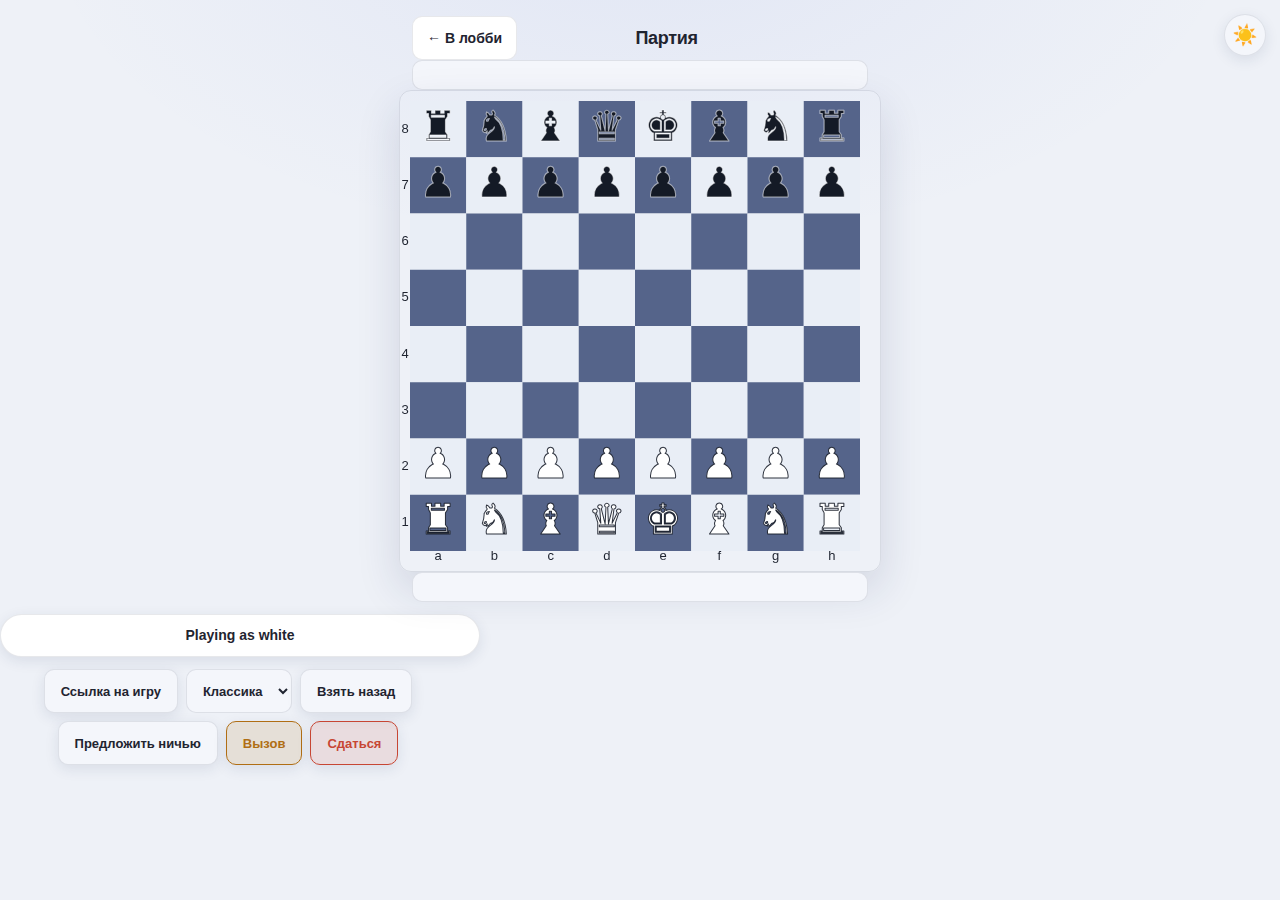
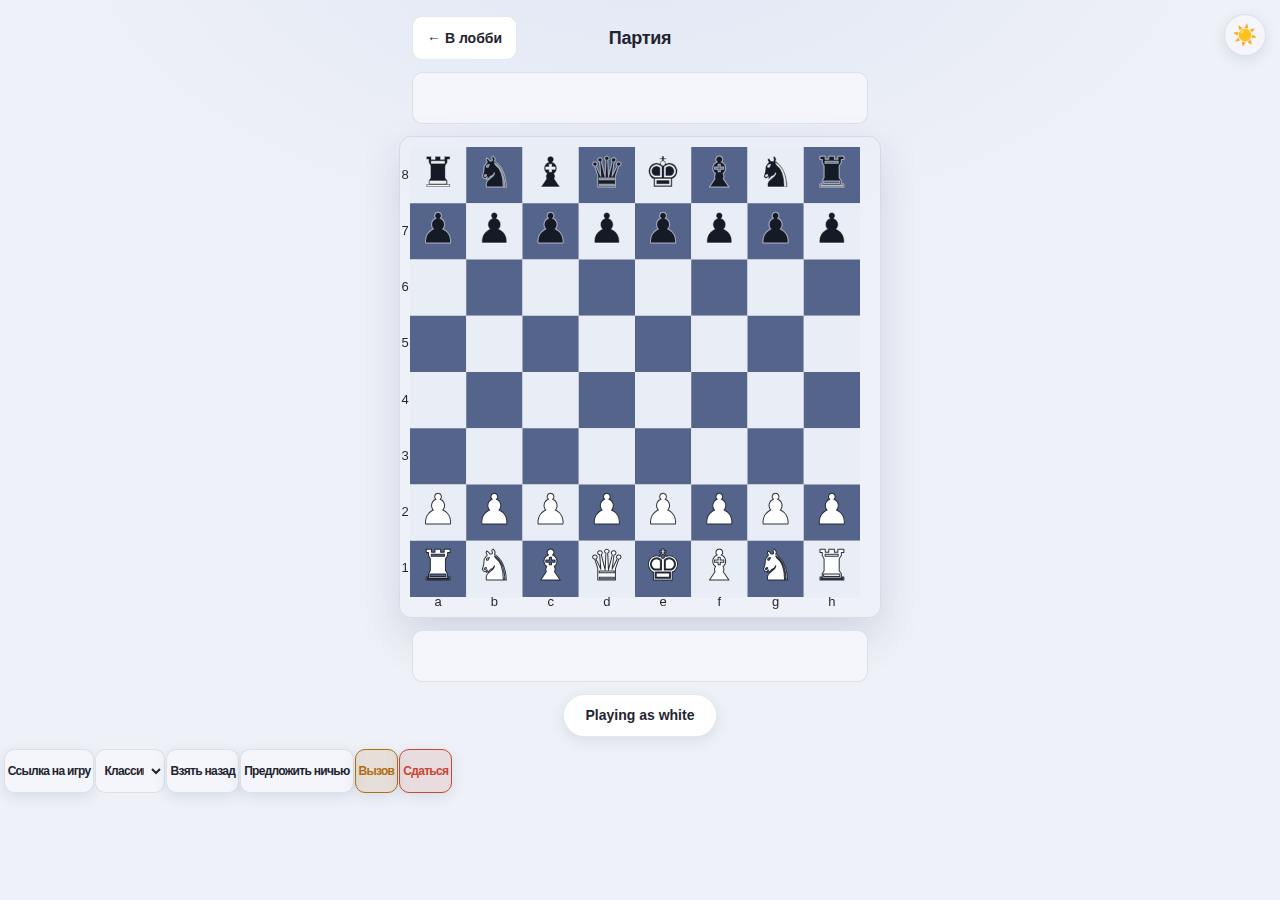
style(game): D-b rhythm, tap targets, empty-strip stability

diff --git a/src/public/styles/game.css b/src/public/styles/game.css
@@ -512,3 +512,88 @@ canvas#cnv {
    themes. No earlier .cap-piece rule sets color, so nothing conflicts. */
 .cap-piece.cap-dark { color:#11161f; -webkit-text-stroke:.6px rgba(233,238,249,.75); text-shadow:0 0 2px rgba(233,238,249,.35); }
 .cap-piece.cap-light { color:#eef2fb; -webkit-text-stroke:.6px rgba(17,22,31,.75); text-shadow:0 0 2px rgba(0,0,0,.5); }
+/* contract-37 D-b: final visual polish pass on the single --game-col game page
+   (header -> status -> captured strip -> board -> captured strip -> actions).
+   Verified with puppeteer geometry at 390x844 and 1280x900; before/after
+   numbers in checkpoints/37s-polish.md.
+
+   0) Header title centering: .game-header is position:relative and
+      .nav-title is absolute at left:50% + translateX(-50%), so "Партия" is
+      centered in the COLUMN regardless of the asymmetric flex row (the 105px
+      back button is ~2x wider than the 52px right spacer, which used to shift
+      the flex:1 title's center ~26px right of the column center — measured
+      221.5 vs 195 at 390, 666.5 vs 640 at 1280; after: delta 0). max-width +
+      ellipsis guard a very long title at narrow widths.
+   1) Vertical rhythm: every inter-block gap is var(--sp-3)=12px, no doubling.
+      Each .captured-row owns a 12px gap on BOTH sides (margin: var(--sp-3) 0):
+      header->strip, strip->board and board->strip all read 12px. #status sets
+      margin-top:0 (its strip-side gap is already the white strip's bottom
+      margin — adjacent block margins collapse, they never stack) and keeps
+      12px below for status->actions. .game-header keeps D-a's top padding
+      (no bottom margin, which would stack with the black strip's top margin).
+   2) Tap targets + single row: every action-bar control is height:44px
+      (fixed, so all six are exactly 44px tall — >=44px tap targets). The bar
+      uses gap:1px, a compact fs-xs(12px) label size and -0.7px
+      letter-spacing, with the method select pinned to 70px (flex 0 0 70px +
+      min-width:0 beat its intrinsic content min-width), so all six controls
+      fit the 456px bar in ONE row at 1280 (443.6px + gaps); at 390 (347px
+      bar) the same layout wraps to a balanced two-row grid with no
+      horizontal overflow (scrollWidth == 390).
+   3) Status pill: width:fit-content (was full --game-col) so the pill hugs
+      its text and stays centered by its auto margins; max-width caps it to
+      the column, so it can never be wider than the board.
+   4) Captured strips: min-height:52px + align-items:baseline. 52px is the
+      height of a FILLED strip at the 24px desktop font (line-height 1.5 ->
+      36px + 6px*2 padding + 2px border); an EMPTY strip renders at the same
+      52px and the 43px mobile filled strip fits inside => baseline-aligned
+      glyphs, no board jump when captures appear (jump 0 at 1280, <=1px 390).
+   5) S3 cap-dark/cap-light rules untouched (verbatim above this block). */
+
+.game-header {
+  position: relative;
+}
+
+.game-header .nav-title {
+  position: absolute;
+  left: 50%;
+  transform: translateX(-50%);
+  flex: 0 1 auto;
+  max-width: 100%;
+  overflow: hidden;
+  text-overflow: ellipsis;
+  white-space: nowrap;
+}
+
+.captured-row {
+  align-items: baseline;
+  margin: var(--sp-3) 0;
+  min-height: 52px;
+}
+
+#status {
+  width: fit-content;
+  max-width: var(--game-col);
+  margin: 0 auto var(--sp-3);
+}
+
+.game-actions {
+  gap: 1px;
+}
+
+.game-actions > .game-btn {
+  height: 44px;
+  padding: 9px 3px;
+  font-size: var(--fs-xs);
+  letter-spacing: -0.7px;
+  white-space: nowrap;
+}
+
+.game-actions #method-select {
+  height: 44px;
+  min-width: 0;
+  flex: 0 0 70px;
+  width: 70px;
+  padding: 9px 4px;
+  font-size: var(--fs-xs);
+  letter-spacing: -0.7px;
+}

diff --git a/checkpoints/37s-polish.md b/checkpoints/37s-polish.md
@@ -1,0 +1,119 @@
+# 37s-polish — contract 37 D-b: final visual polish on the game page
+
+One file changed: `src/public/styles/game.css` (appended marked block
+`/* contract-37 D-b */`; D-a and S3 blocks preserved — S3 cap-dark/cap-light
+rules verified byte-identical to HEAD). Screenshots re-taken in the seated
+"Playing as white" state (guest pair, raw socket.io private-match, same
+seating as the E2E gate).
+
+Measured with `test/tmp-measure-37d.mjs` (puppeteer geometry, /snap/bin/chromium,
+headless) at 390x844 and 1280x900, on port 8805 (before) / 8999 (after).
+All gaps measured as `next.top - previous.bottom` (bounding boxes).
+
+## 0) Header title centering (orchestrator addendum to the D-b brief)
+
+Contract-37 item: header has "← В лобби" on the left and "Партия" centered in
+the column. Markup (game.ejs, unchanged): `.game-header` flex row =
+`a.nav-back` (~105px) + `h1.nav-title{flex:1;text-align:center}` +
+`span.nav-spacer{width:52px}`. Because the back button is ~2x wider than the
+right spacer, the flex:1 title's center was NOT the column center.
+
+| metric (puppeteer) | before | after |
+|---|---|---|
+| 390: .nav-title center (px) | 221.53 | 195.0 |
+| 390: viewport/column center (px) | 195.0 | 195.0 |
+| 390: title-center delta (px) | 26.53 | 0.0 |
+| 1280: .nav-title center (px) | 666.53 | 640.0 |
+| 1280: viewport/column center (px) | 640.0 | 640.0 |
+| 1280: title-center delta (px) | 26.53 | 0.0 |
+
+Target <=2px met (0px). Fix (D-b block, CSS-only): `.game-header{position:
+relative}` and `.game-header .nav-title{position:absolute; left:50%;
+transform:translateX(-50%); flex:0 1 auto; max-width:100%; overflow:hidden;
+text-overflow:ellipsis; white-space:nowrap}` — pins the title to the column
+midpoint independent of the asymmetric back-button/spacer widths; the
+higher-specificity `.game-header .nav-title` selector overrides D-a's
+`flex:1` so the absolute centering wins. No E2E row asserts the title's
+position, and all other D-b metrics (rhythm, tap targets, pill, strips) are
+unchanged by this addition (re-verified below).
+
+## 1) Vertical rhythm (gap between stacked blocks)
+
+| gap | before 390 | after 390 | before 1280 | after 1280 |
+|---|---|---|---|---|
+| header -> captured-black | 0 | 12 | 0 | 12 |
+| captured-black -> board | 0 | 12 | 0 | 12 |
+| board -> captured-white | 0 | 12 | 0 | 12 |
+| captured-white -> status | 12 | 12 | 12 | 12 |
+| status -> actions | 12 | 12 | 12 | 12 |
+
+How: each `.captured-row` now owns a 12px gap on both sides
+(`margin: var(--sp-3) 0`); `#status` sets `margin: 0 auto var(--sp-3)` so its
+top margin (0) does not stack with the white strip's bottom margin — adjacent
+block margins collapse, they never sum. `.game-header` keeps D-a's top padding
+(no bottom margin added, which would have stacked to 24px). Result: uniform
+12px (= var(--sp-3)) rhythm, no doubled margins.
+
+## 2) Action bar tap targets / single row
+
+| metric | before 390 | after 390 | before 1280 | after 1280 |
+|---|---|---|---|---|
+| bar height (px) | 148 (3 rows) | 89 (2 rows) | 96 (2 rows) | 44 (1 row) |
+| control heights | 44 each (min-height) | 44 each (fixed) | 44 each | 44 each |
+| method select height | 44 | 44 | 44 | 44 |
+| control widths (px) | [142,111,118,170,80,92] | [91,70,73,113,44,53] | [142,111,118,170,80,92] | [91,70,73,113,44,53] |
+| bar width (px) | 347 (2-3 row wrap) | 347 (2-row wrap) | 456 | 456 |
+| horizontal overflow | sw 390=iw (ok) | sw 390=iw (ok) | sw 1280=iw (ok) | sw 1280=iw (ok) |
+
+How: `.game-actions { gap: 1px }`, `.game-actions > .game-btn {
+height:44px; padding:9px 3px; font-size:var(--fs-xs); letter-spacing:-0.7px;
+flex-shrink:0; white-space:nowrap }`, `#method-select { height:44px;
+flex:0 0 70px; width:70px; min-width:0; padding:9px 4px; font-size:
+var(--fs-xs); letter-spacing:-0.7px }`. Natural 13px labels would need
+~470px of content + gaps in the 456px bar (2 rows); the compact 12px labels
++ pinned 70px select fit 443.6px + 10px gaps < 456px => ONE row at 1280.
+At 390 (347px bar) the same six controls wrap to a balanced 2+3 two-row grid
+(row 1: link+select+takeback=234px; row 2: draw+challenge+resign=151px),
+scrollWidth stays 390 — no horizontal overflow. Select height == button
+height == 44px.
+
+## 3) Status pill
+
+| metric | before | after (both viewports) |
+|---|---|---|
+| #status width (px) | 371 (390) / 480 (1280) — full column | 155 (hugs "Playing as white") |
+| #status center (px) | 195 / 640 | 195 / 640 |
+| page center (px) | 195 / 640 | 195 / 640 |
+| board width (px) | 382 / 482 | 382 / 482 |
+
+How: `#status { width: fit-content; max-width: var(--game-col);
+margin: 0 auto var(--sp-3) }`. Pill now hugs its text, is visually centered
+(center == page/board center, measured 195@390, 640@1280) and (155px) can
+never be wider than the board (382/482px).
+
+## 4) Captured strips: stability + baseline
+
+| metric | before 390 | after 390 | before 1280 | after 1280 |
+|---|---|---|---|---|
+| empty strip height (px) | 30 | 42 | 30 | 52 |
+| filled strip height (3 glyphs) (px) | n/a (measured in D-a pass: 31) | 43 | n/a | 52 |
+| board top after injecting 3 glyphs (px) | n/a | 127 (+1px, subpixel) | n/a | 136 (jump 0) |
+
+How: `.captured-row { align-items: baseline; margin: var(--sp-3) 0;
+min-height: 52px }`. 52px is the exact height of a filled strip at the 24px
+desktop font (36px line-box + 12px padding + 2px border); an EMPTY strip now
+renders at the same 52px, so the board does not move when the first capture
+glyph appears (stripProbe: jump 0 at 1280, 1px subpixel at 390 where the
+18px-font filled strip is 43px < 52px). `align-items: baseline` keeps all
+glyphs on one baseline. (S3 cap-dark/cap-light color rules untouched.)
+
+## 5) Screenshots (re-taken, overwrote)
+
+- checkpoints/design-37/game-390.png (390x844, seated as white)
+- checkpoints/design-37/game-1280.png (1280x900, seated as white)
+- checkpoints/design-37/game-390-actions.png (390 viewport, scrolled to action bar)
+
+## Gate
+
+bash test/e2e-gate.sh <free port> | grep -E "FAIL|SUMMARY"
+=> (see commit report)
